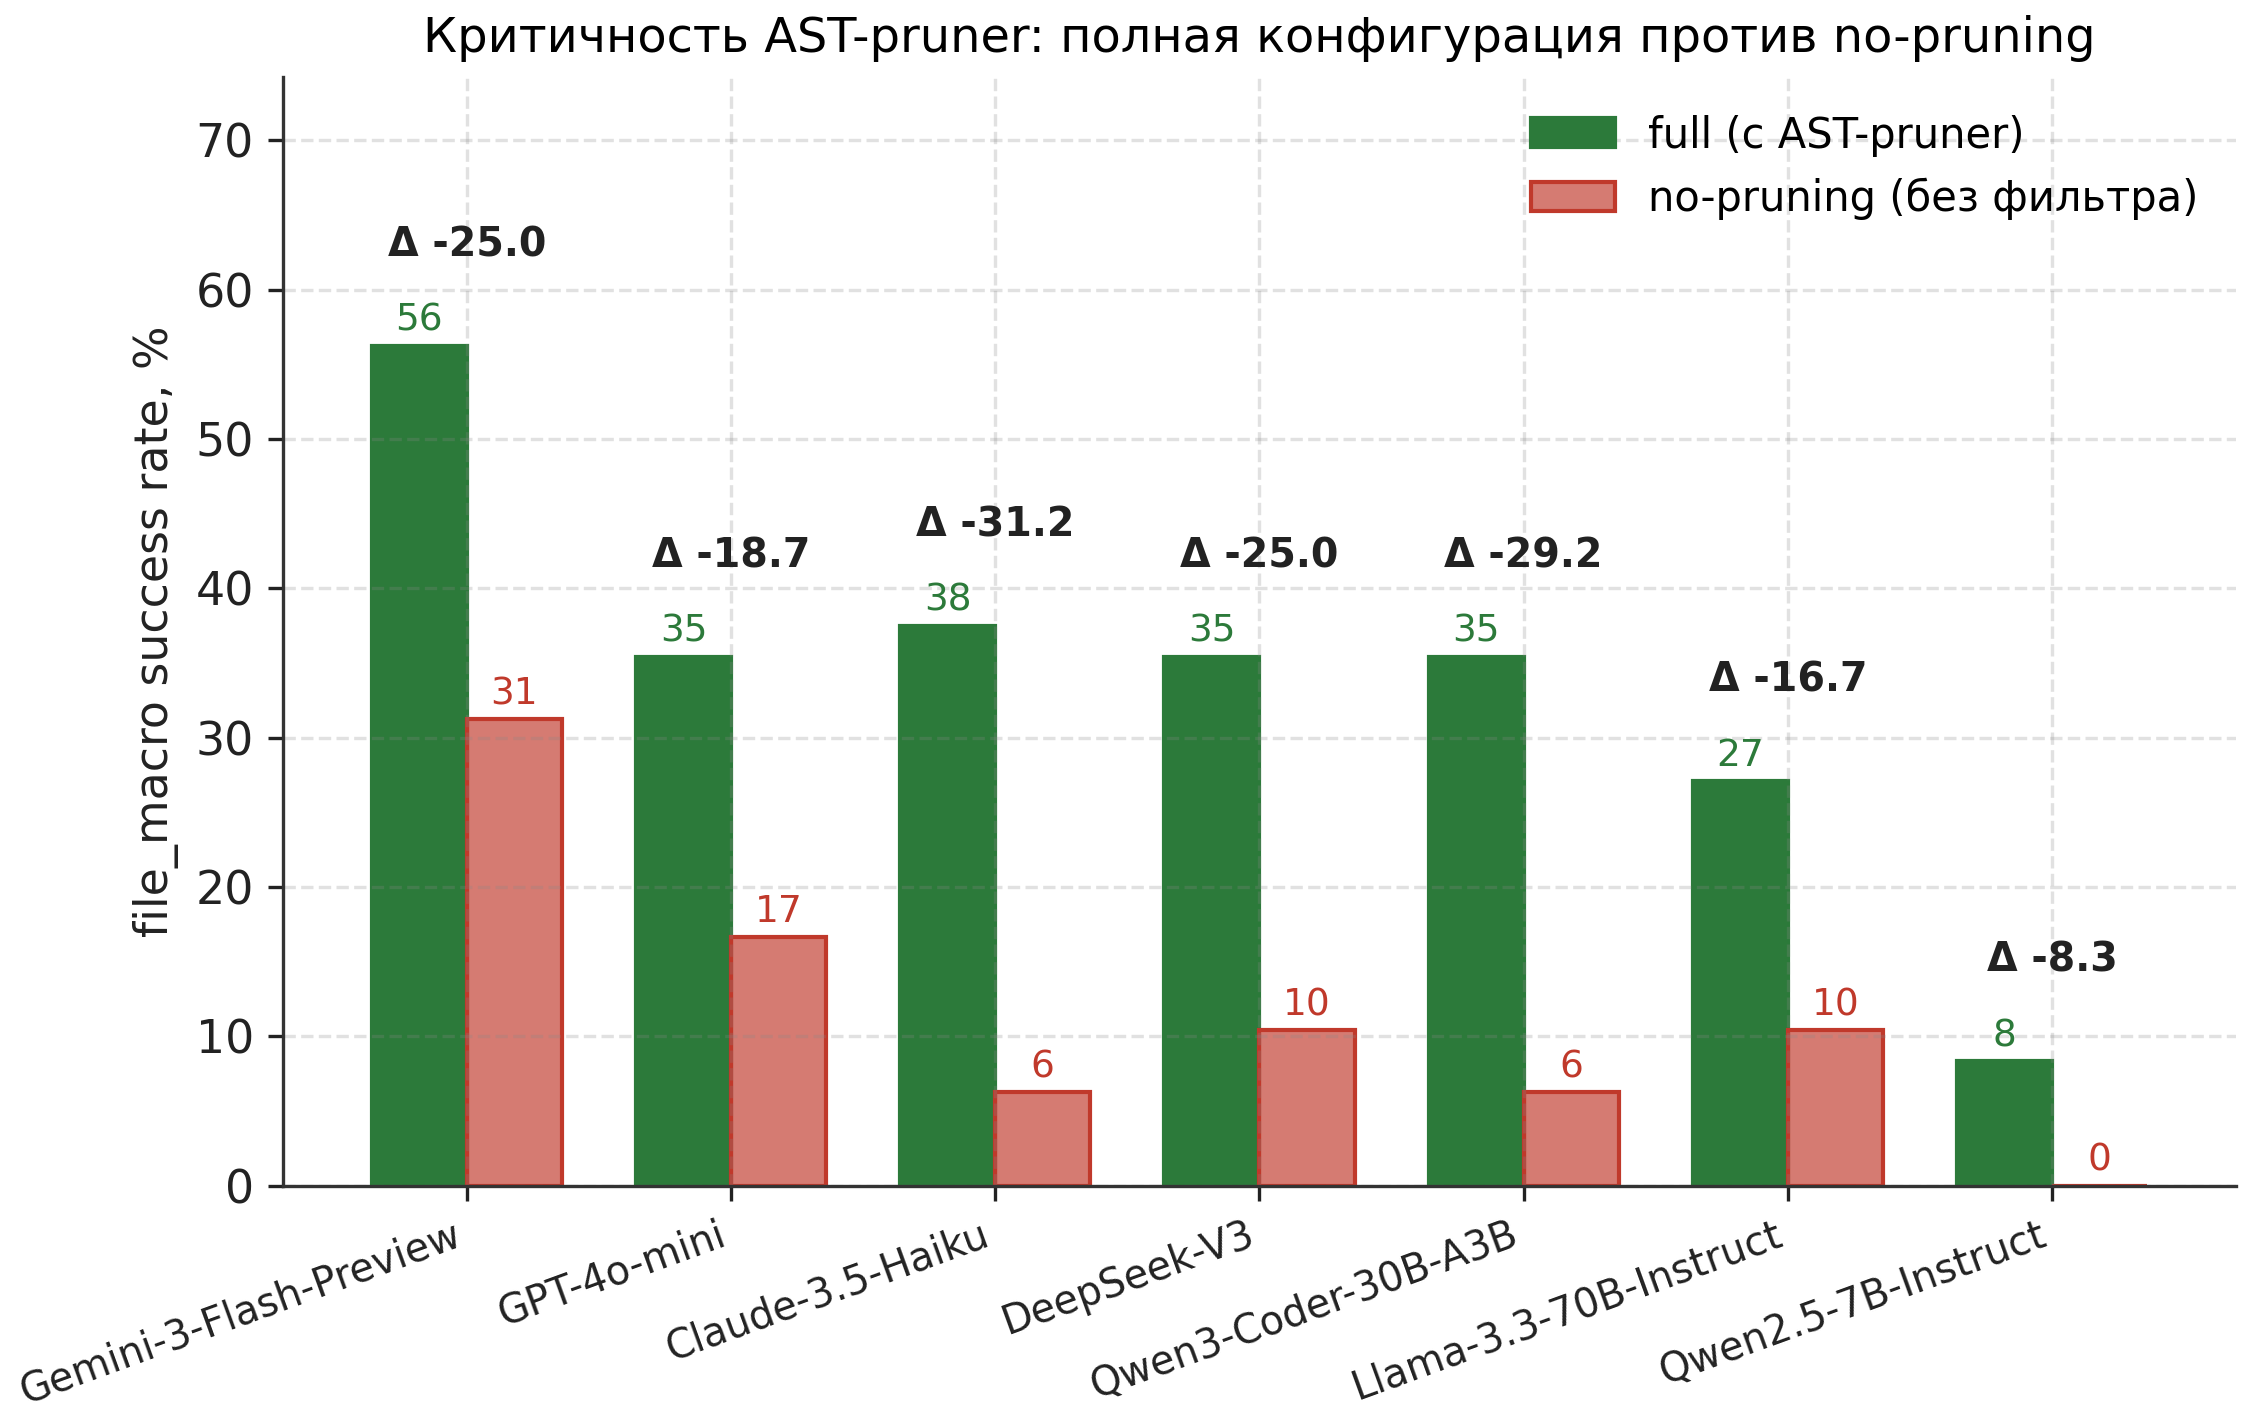
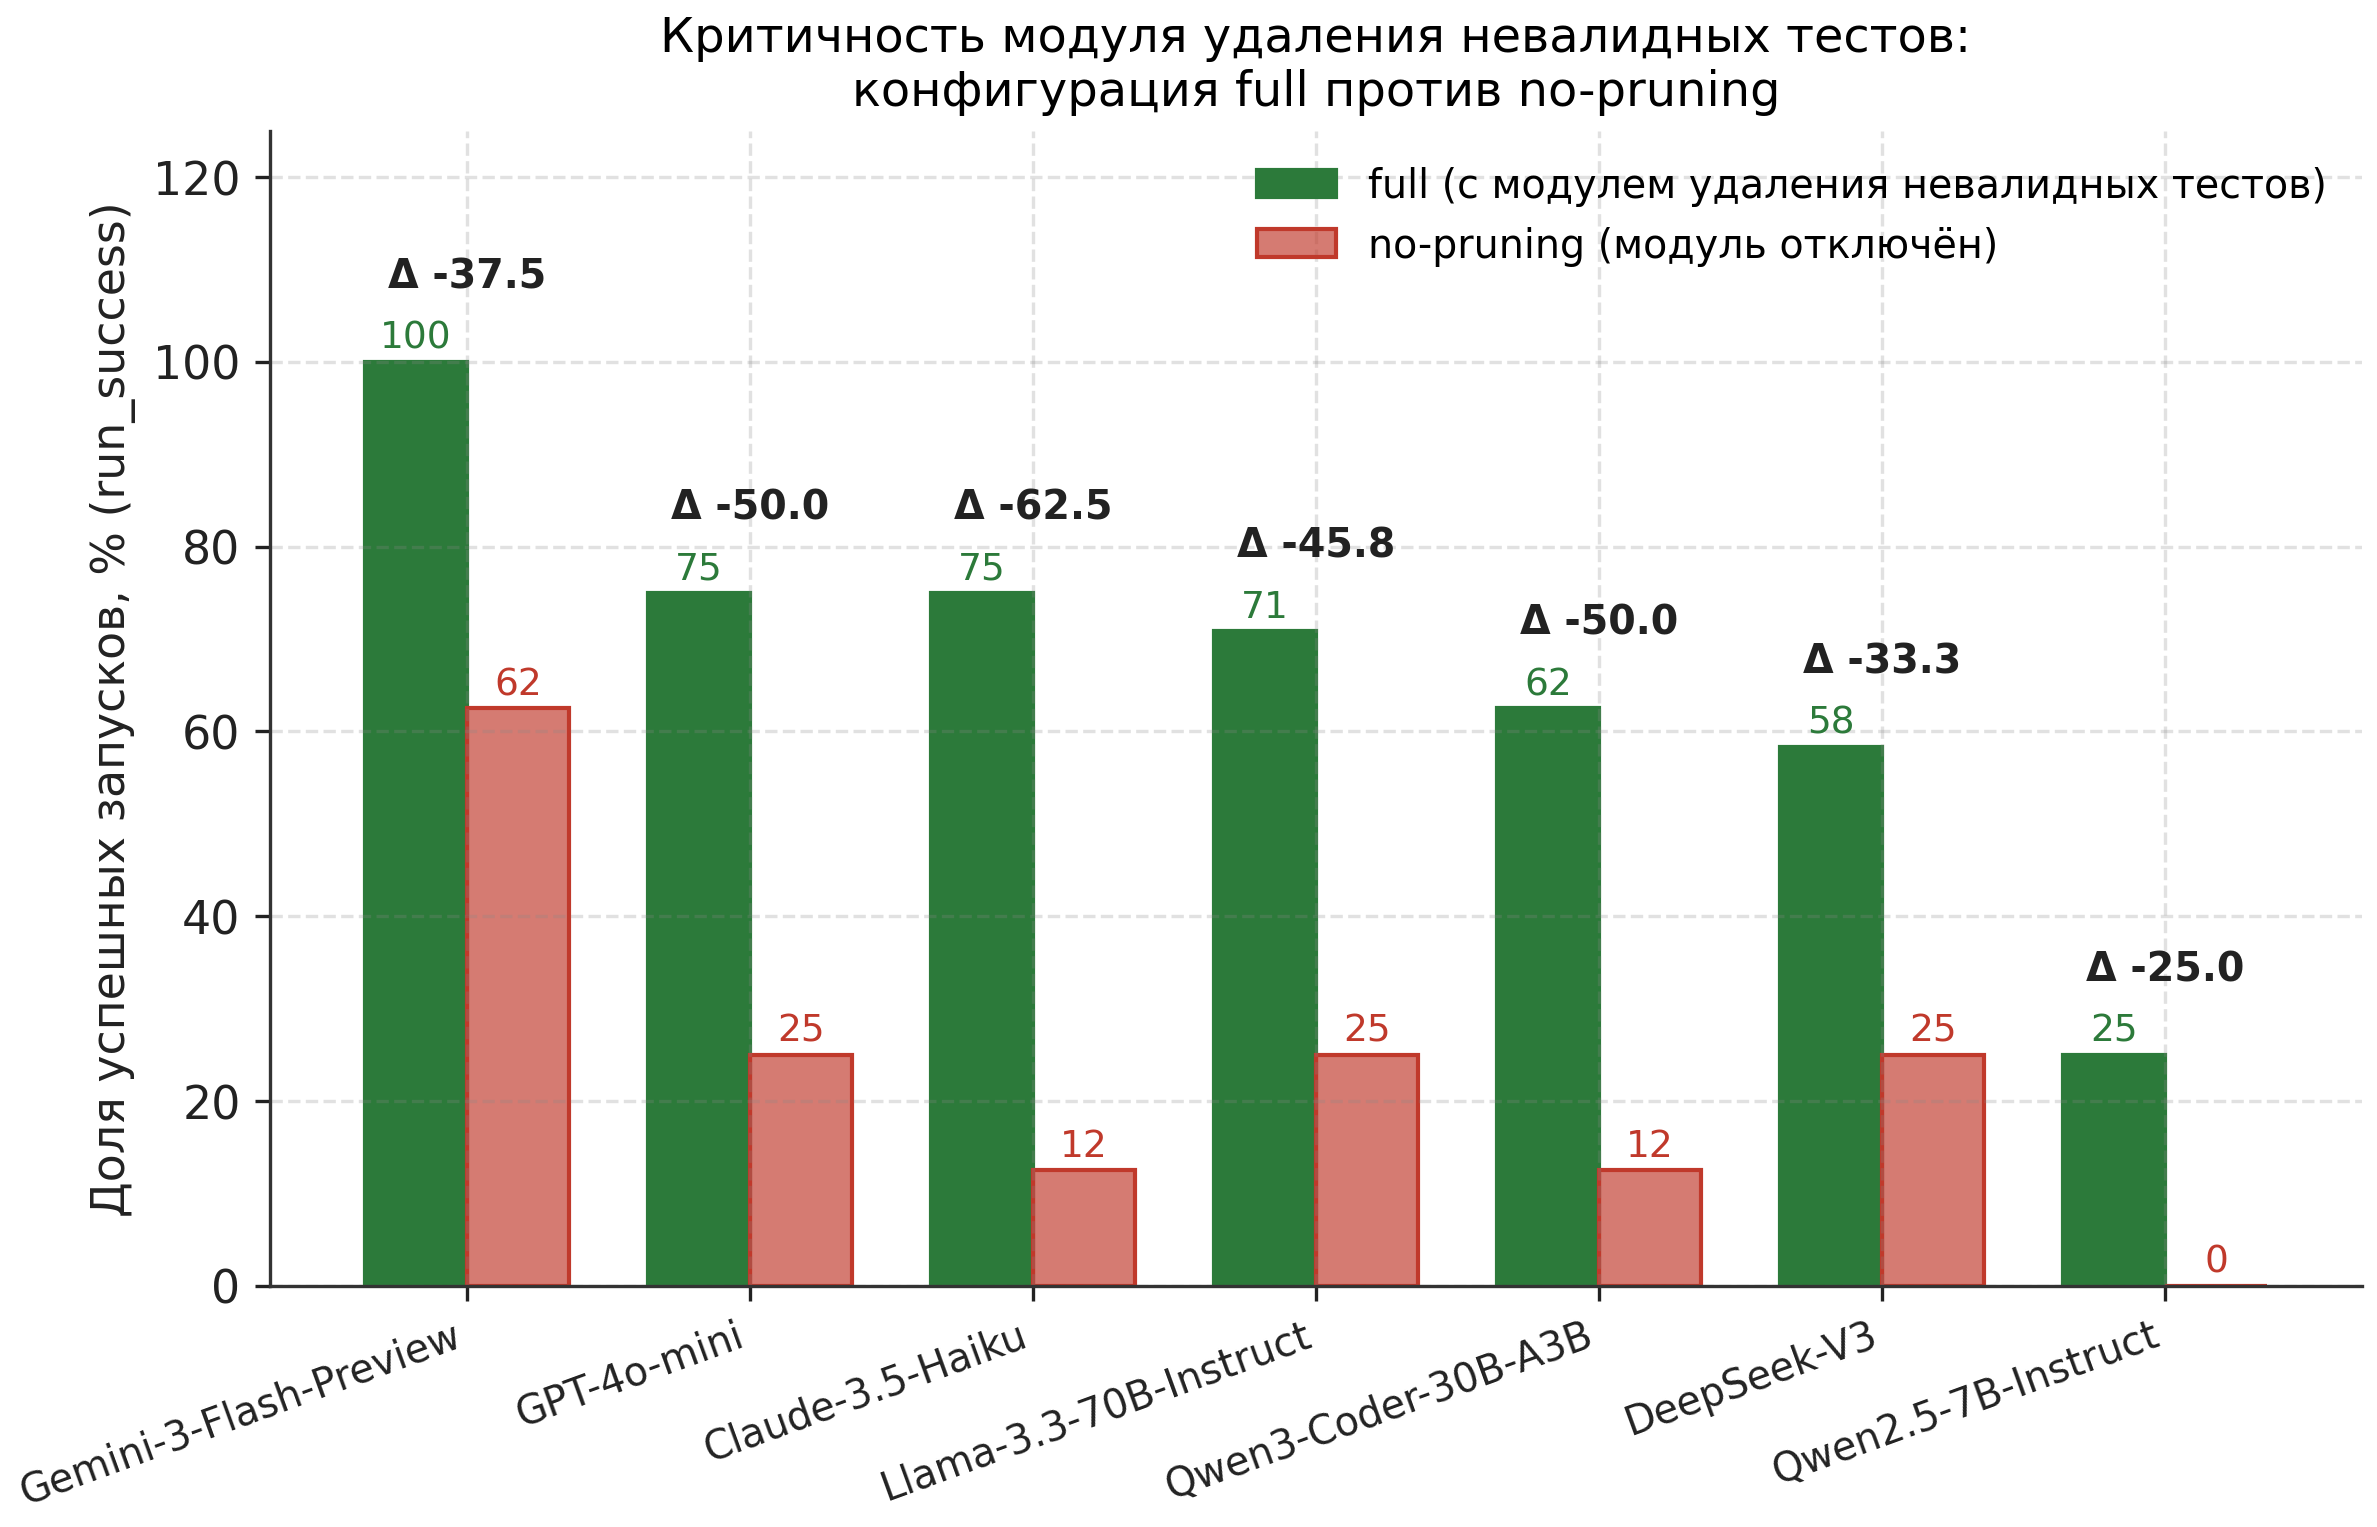
feat(graphs): rebuild chapter-5 figures with updated formulations

diff --git a/scripts/analysis/99-graphs.py b/scripts/analysis/99-graphs.py
@@ -158,64 +158,74 @@ def aggregate_per_config(rows):
     return fm, rs
 
 
-# ── G1 — capability ladder (horizontal bars) ─────────────────────────────────
+# ── G1 — potential vs robustness (grouped horizontal bars) ───────────────────
 
 def plot_g1(rows):
-    metrics = aggregate_model_metrics(rows)
-    ranked = sorted(metrics.items(), key=lambda kv: kv[1]["run_success"])
-    labels = [m["label"] for _, m in ranked]
-    vals = [m["run_success"] for _, m in ranked]
-    fmacro = [m["file_macro"] for _, m in ranked]
+    """Two bars per model: run_success on `full` (potential) vs run_success
+    averaged over all six configurations (robustness to ablation).
 
-    # Tier colour: floor/mid-tier/frontier — by run_success.
-    def tier_color(rs: float) -> str:
-        if rs < 25:
-            return NEUTRAL
-        if rs < 80:
-            return PRIMARY
-        return ACCENT
+    The graphic complements Table T3, which lists only the `full` value;
+    the gap between the two bars characterises how strongly each model
+    relies on the agentic harness around it.
+    """
+    by_all = defaultdict(list)
+    by_full = defaultdict(list)
+    for r in rows:
+        by_all[r["model_id"]].append(r)
+        if r["config"] == "full":
+            by_full[r["model_id"]].append(r)
 
-    fig, ax = plt.subplots(figsize=(8.6, 4.8))
+    rows_data = []
+    for raw_dir, sid, lbl in MODELS:
+        rs_all = by_all.get(sid, [])
+        rs_full = by_full.get(sid, [])
+        if not rs_all or not rs_full:
+            continue
+        rate_full = sum(1 for r in rs_full if r["tests_validated"] > 0) / len(rs_full) * 100
+        rate_all = sum(1 for r in rs_all if r["tests_validated"] > 0) / len(rs_all) * 100
+        rows_data.append((lbl, rate_full, rate_all))
+
+    # bottom-up: ascending by full, tie-break by avg.
+    rows_data.sort(key=lambda t: (t[1], t[2]))
+    labels = [t[0] for t in rows_data]
+    full_v = [t[1] for t in rows_data]
+    avg_v  = [t[2] for t in rows_data]
+
+    fig, ax = plt.subplots(figsize=(9.2, 5.0))
     y = np.arange(len(labels))
-    bar_h = 0.62
-    fm_h = 0.22
+    bar_h = 0.36
 
-    rs_colors = [tier_color(v) for v in vals]
-    rs_face = [c + "66" for c in rs_colors]  # 40 % alpha (RGBA)
-    ax.barh(y + fm_h / 1.5, vals, color=rs_face, edgecolor=rs_colors,
-            linewidth=1.1, height=bar_h - fm_h)
-    ax.barh(y - bar_h / 2 + fm_h / 2, fmacro, color=SECONDARY,
-            edgecolor=SECONDARY, linewidth=0.0, height=fm_h)
+    ax.barh(
+        y + bar_h / 2, full_v,
+        color=PRIMARY + "AA", edgecolor=PRIMARY, linewidth=1.0,
+        height=bar_h, label="конфигурация full (24 запуска)",
+    )
+    ax.barh(
+        y - bar_h / 2, avg_v,
+        color=NEUTRAL + "55", edgecolor=NEUTRAL, linewidth=1.0,
+        height=bar_h, label="среднее по 6 конфигурациям (144 запуска)",
+    )
 
-    for i, (v, fm) in enumerate(zip(vals, fmacro)):
-        ax.text(v + 1.0, i + fm_h / 1.5, f"{v:.1f}%", va="center", ha="left",
+    for i, (vf, va) in enumerate(zip(full_v, avg_v)):
+        ax.text(vf + 1.0, i + bar_h / 2, f"{vf:.1f}\u202f%",
+                va="center", ha="left",
                 fontsize=10, color=GREY_DARK, fontweight="bold")
-        ax.text(fm + 1.0, i - bar_h / 2 + fm_h / 2, f"{fm:.1f}%",
-                va="center", ha="left", fontsize=8.5, color=SECONDARY)
+        ax.text(va + 1.0, i - bar_h / 2, f"{va:.1f}\u202f%",
+                va="center", ha="left",
+                fontsize=9.5, color=GREY_MID)
 
     ax.set_yticks(y)
     ax.set_yticklabels(labels)
-    ax.set_xlim(0, 112)
+    ax.set_xlim(0, 115)
+    ax.set_xticks(np.arange(0, 101, 20))
     ax.set_ylim(-0.7, len(labels) - 0.3)
     ax.set_xlabel("Доля успешных запусков, % (run_success)")
-    ax.set_title("Иерархия моделей по успешности генерации\n(8 проектов × 6 конфигураций × 3 запуска = 144 запуска на модель)",
-                 fontsize=11.5)
+    ax.set_title(
+        "Потенциал моделей и просадка при отключении компонент пайплайна",
+        fontsize=11.5,
+    )
 
-    legend_handles = [
-        plt.Rectangle((0, 0), 1, 1, color=ACCENT + "66", ec=ACCENT, lw=1.1),
-        plt.Rectangle((0, 0), 1, 1, color=PRIMARY + "66", ec=PRIMARY, lw=1.1),
-        plt.Rectangle((0, 0), 1, 1, color=NEUTRAL + "66", ec=NEUTRAL, lw=1.1),
-        plt.Rectangle((0, 0), 1, 1, color=SECONDARY),
-    ]
-    ax.legend(legend_handles,
-              ["frontier (run_success ≥ 80 %)",
-               "mid-tier (25 % ≤ run_success < 80 %)",
-               "floor (run_success < 25 %)",
-               "file_macro — успешных файлов на запуск"],
-              loc="lower right", frameon=False, fontsize=8.8)
-
-    ax.axhline(0.5, color=GREY_LIGHT, linewidth=0.8)
-    ax.axhline(5.5, color=GREY_LIGHT, linewidth=0.8)
+    ax.legend(loc="lower right", frameon=False, fontsize=9.2)
 
     save(fig, "G1-capability-ladder")
 
@@ -223,22 +233,25 @@ def plot_g1(rows):
 # ── G2 — component importance (mean Δ vs full + min/max whiskers) ────────────
 
 def plot_g2(rows):
-    fm, _ = aggregate_per_config(rows)
+    """Mean Δ run_success vs `full` per ablated component, with min/max
+    whiskers across the seven models.
+    """
+    _, rs_per = aggregate_per_config(rows)
     components = [c for c in CONFIGS if c != "full"]
     component_labels = {
-        "no-types":              "no-types\n(AST-типы)",
-        "no-smart-diff":         "no-smart-\ndiff",
+        "no-types":               "no-types\n(анализ go/types)",
+        "no-smart-diff":          "no-smart-\ndiff",
         "no-structured-feedback": "no-structured-\nfeedback",
-        "no-pruning":            "no-pruning\n(AST-фильтр)",
-        "no-coverage":           "no-coverage\n(cover-loop)",
+        "no-pruning":             "no-pruning\n(удаление\nневалидных тестов)",
+        "no-coverage":            "no-coverage\n(цикл расширения\nпокрытия)",
     }
 
     means, mins, maxs = [], [], []
     for cfg in components:
         deltas = []
         for raw_dir, sid, lbl in MODELS:
-            full_v = fm.get((sid, "full"), 0.0)
-            d = fm.get((sid, cfg), 0.0) - full_v
+            full_v = rs_per.get((sid, "full"), 0.0)
+            d = rs_per.get((sid, cfg), 0.0) - full_v
             deltas.append(d)
         means.append(statistics.mean(deltas))
         mins.append(min(deltas))
@@ -250,39 +263,46 @@ def plot_g2(rows):
     mins = [mins[i] for i in order]
     maxs = [maxs[i] for i in order]
 
-    fig, ax = plt.subplots(figsize=(7.8, 4.6))
+    fig, ax = plt.subplots(figsize=(8.6, 4.8))
     x = np.arange(len(components))
     err_low = [m - lo for m, lo in zip(means, mins)]
     err_high = [hi - m for m, hi in zip(means, maxs)]
 
     bar_colors = [POSITIVE if m < 0 else NEGATIVE for m in means]
-    bar_face = [c + "55" for c in bar_colors]  # 33 % alpha
+    bar_face = [c + "55" for c in bar_colors]
     ax.bar(x, means, color=bar_face, edgecolor=bar_colors, linewidth=1.3, width=0.55)
     ax.errorbar(x, means, yerr=[err_low, err_high], fmt="none",
                 ecolor=GREY_DARK, capsize=6, capthick=1.0, elinewidth=1.0)
 
     for xi, m in zip(x, means):
         col = POSITIVE if m < 0 else NEGATIVE
-        ax.text(xi, m - 1.8 if m < 0 else m + 1.8, f"{m:+.1f}",
+        ax.text(xi, m - 2.0 if m < 0 else m + 2.0, f"{m:+.1f}",
                 ha="center", va="top" if m < 0 else "bottom",
                 fontsize=10, fontweight="bold", color=col)
 
     ax.axhline(0, color=GREY_DARK, linewidth=0.9)
     ax.set_xticks(x)
-    ax.set_xticklabels([component_labels[c] for c in components], fontsize=9.5)
-    ax.set_ylabel("Δ file_macro vs full, п.п.")
-    ax.set_title("Вклад компонент архитектуры в качество генерации\n(столбец — среднее по 7 моделям, усы — min/max разброс)",
-                 fontsize=11.5)
-    ax.set_ylim(min(mins) - 8, max(maxs) + 8)
+    ax.set_xticklabels([component_labels[c] for c in components], fontsize=9.0)
+    ax.set_ylabel("Δ run_success vs full, процентных пунктов")
+    ax.set_title(
+        "Вклад компонент пайплайна в успешность генерации\n"
+        "(столбец — среднее по 7 моделям, усы — min/max разброс)",
+        fontsize=11.5,
+    )
+    ax.set_ylim(min(mins) - 10, max(maxs) + 10)
 
     legend_handles = [
         plt.Rectangle((0, 0), 1, 1, color=POSITIVE + "55", ec=POSITIVE, lw=1.3),
         plt.Rectangle((0, 0), 1, 1, color=NEGATIVE + "55", ec=NEGATIVE, lw=1.3),
     ]
-    ax.legend(legend_handles,
-              ["компонент полезен (отключение ↓ качества)",
-               "компонент мешает (отключение ↑ качества)"],
-              loc="upper left", frameon=False, fontsize=9)
+    ax.legend(
+        legend_handles,
+        [
+            "компонент полезен (отключение снижает успешность)",
+            "компонент мешает (отключение повышает успешность)",
+        ],
+        loc="upper left", frameon=False, fontsize=9.0,
+    )
 
     save(fig, "G2-component-importance")
 
@@ -290,37 +310,51 @@ def plot_g2(rows):
 # ── G3 — pruner criticality (paired bars: full vs no-pruning per model) ──────
 
 def plot_g3(rows):
-    fm, _ = aggregate_per_config(rows)
+    """Paired bars per model: run_success on `full` vs run_success on
+    `no-pruning`. Demonstrates universal criticality of the test-pruning
+    component across the seven models.
+    """
+    _, rs_per = aggregate_per_config(rows)
     metrics = aggregate_model_metrics(rows)
-    ordered = sorted(metrics.items(), key=lambda kv: -kv[1]["file_macro"])
+    # Order models by descending run_success on `full`.
+    ordered = sorted(
+        metrics.items(),
+        key=lambda kv: -rs_per.get((kv[0], "full"), 0.0),
+    )
 
     labels = [m["label"] for _, m in ordered]
-    full_vals = [fm[(sid, "full")] for sid, _ in ordered]
-    np_vals = [fm[(sid, "no-pruning")] for sid, _ in ordered]
+    full_vals = [rs_per[(sid, "full")] for sid, _ in ordered]
+    np_vals = [rs_per[(sid, "no-pruning")] for sid, _ in ordered]
     deltas = [np_vals[i] - full_vals[i] for i in range(len(labels))]
 
-    fig, ax = plt.subplots(figsize=(8.4, 4.8))
+    fig, ax = plt.subplots(figsize=(9.0, 5.0))
     x = np.arange(len(labels))
     w = 0.36
     ax.bar(x - w / 2, full_vals, width=w, color=POSITIVE, edgecolor=POSITIVE,
-           label="full (с AST-pruner)")
+           label="full (с модулем удаления невалидных тестов)")
     ax.bar(x + w / 2, np_vals, width=w, color=NEGATIVE + "AA",
-           edgecolor=NEGATIVE, linewidth=1.0, label="no-pruning (без фильтра)")
+           edgecolor=NEGATIVE, linewidth=1.0,
+           label="no-pruning (модуль отключён)")
 
     for xi, fv, nv, d in zip(x, full_vals, np_vals, deltas):
-        ax.text(xi - w / 2, fv + 1.0, f"{fv:.0f}", ha="center", fontsize=9, color=POSITIVE)
-        ax.text(xi + w / 2, nv + 1.0, f"{nv:.0f}", ha="center", fontsize=9, color=NEGATIVE)
-        y_arrow = max(fv, nv) + 6
-        ax.annotate(f"Δ {d:+.1f}", xy=(xi, y_arrow), ha="center", fontsize=9.5,
-                    color=GREY_DARK, fontweight="bold")
+        ax.text(xi - w / 2, fv + 1.5, f"{fv:.0f}", ha="center",
+                fontsize=9, color=POSITIVE)
+        ax.text(xi + w / 2, nv + 1.5, f"{nv:.0f}", ha="center",
+                fontsize=9, color=NEGATIVE)
+        y_arrow = max(fv, nv) + 8
+        ax.annotate(f"Δ {d:+.1f}", xy=(xi, y_arrow), ha="center",
+                    fontsize=9.5, color=GREY_DARK, fontweight="bold")
 
     ax.set_xticks(x)
     ax.set_xticklabels(labels, rotation=20, ha="right", fontsize=9.5)
-    ax.set_ylabel("file_macro success rate, %")
-    ax.set_ylim(0, max(max(full_vals), max(np_vals)) + 18)
-    ax.set_title("Критичность AST-pruner: полная конфигурация против no-pruning",
-                 fontsize=11.5)
-    ax.legend(loc="upper right", frameon=False, fontsize=10)
+    ax.set_ylabel("Доля успешных запусков, % (run_success)")
+    ax.set_ylim(0, max(max(full_vals), max(np_vals)) + 25)
+    ax.set_title(
+        "Критичность модуля удаления невалидных тестов:\n"
+        "конфигурация full против no-pruning",
+        fontsize=11.5,
+    )
+    ax.legend(loc="upper right", frameon=False, fontsize=9.5)
 
     save(fig, "G3-pruner-criticality")
 

diff --git a/chapter5-структура.md b/chapter5-структура.md
@@ -59,15 +59,15 @@
 | № | Проект | Домен | PR | Файлов | Δ строк | Сложность |
 |---:|---|---|---|---:|---|---|
 | 1 | gorilla/mux | HTTP-роутер | #759 | 2 | +34/-1 | низкая-средняя |
-| 2 | google/uuid | Утилита | #150 | 1 | +14 | низкая |
-| 3 | spf13/cobra | CLI-фреймворк | #2044 | 2 | +28/-4 | **высокая** (subcommand-graph) |
-| 4 | burntsushi/toml | Парсер/кодек | #355 | 3 | +38/-16 | средняя (type-switch) |
-| 5 | gin-gonic/gin | Web-фреймворк | #4535 | 1 | +66 | средняя (большой hunk) |
-| 6 | etcd-io/bbolt | Embedded DB | #1179 | 1 | small | низкая |
+| 2 | google/uuid | Утилита | #150 | 1 | +34/-5 | низкая |
+| 3 | spf13/cobra | CLI-фреймворк | #2044 | 2 | +32/-7 | **высокая** (subcommand-graph) |
+| 4 | burntsushi/toml | Парсер/кодек | #355 | 3 | +46/-15 | средняя (type-switch) |
+| 5 | gin-gonic/gin | Web-фреймворк | #4535 | 1 | +66/-1 | средняя (большой hunk) |
+| 6 | etcd-io/bbolt | Embedded DB | #1179 | 1 | +27/-13 | низкая |
 | 7 | hashicorp/raft | Консенсус | #494 | 2 | +22/-2 | низкая (есть mock-инфра) |
 | 8 | restic/restic | Backup | #5627 | 2 | +52/-5 | средняя |
 
-(Точные числа Δ строк уточнить из `git diff --stat` каждого PR при написании tex.)
+(Числа сверены через `gh pr view --json files` 17.05.2026; учтены только реализационные `.go`-файлы без `*_test.go`, документации и конфигов сборки.)
 
 **Контролируемое разнообразие сложности (1 абзац).** Эмпирически (анализ §5.5.8) сложность проявилась так: самый «решаемый» проект — `hashicorp-raft` (90,5 % run_success в `full`), самый трудный — `spf13-cobra` (33,3 %). Между ними коридор 52–71 % у остальных шести. Это распределение не было известно при отборе; оно эмерджентно подтверждает успешность критериев — выборка покрывает реальный диапазон сложности, не вырождаясь в «всё легко» или «всё невозможно».
 